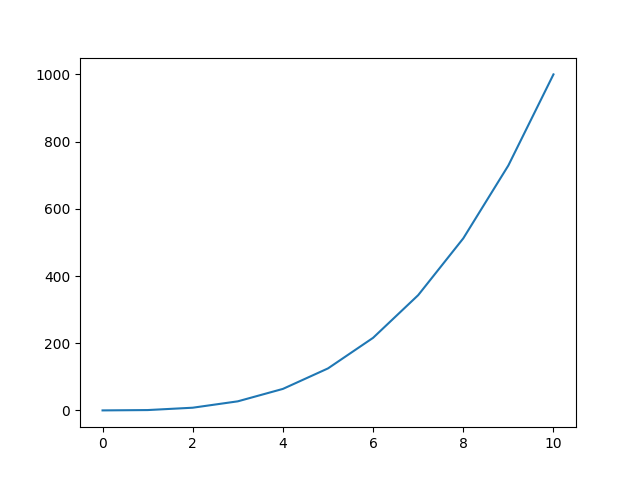
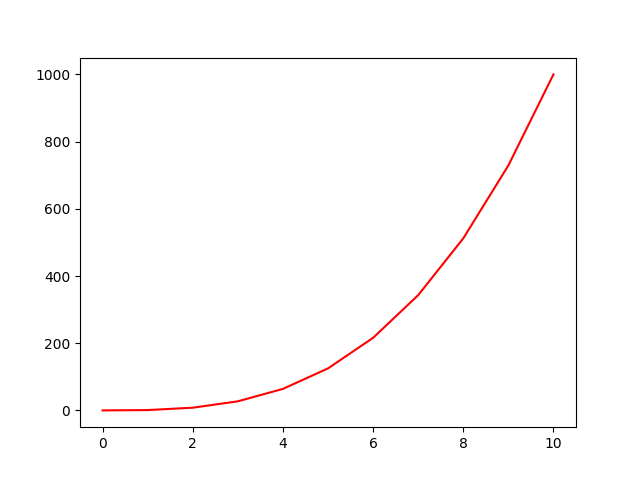
making the line red for task 0

diff --git a/math/0x01-plotting/0-line.py b/math/0x01-plotting/0-line.py
@@ -5,6 +5,6 @@ import matplotlib.pyplot as plt
 y = np.arange(0, 11) ** 3
 
 x = np.arange(0, 11)
-plt.plot(x, y)
-#plt.savefig("0-line.png")
-plt.show()
+plt.plot(x, y, c='red')
+plt.savefig("0-line.png")
+#plt.show()
